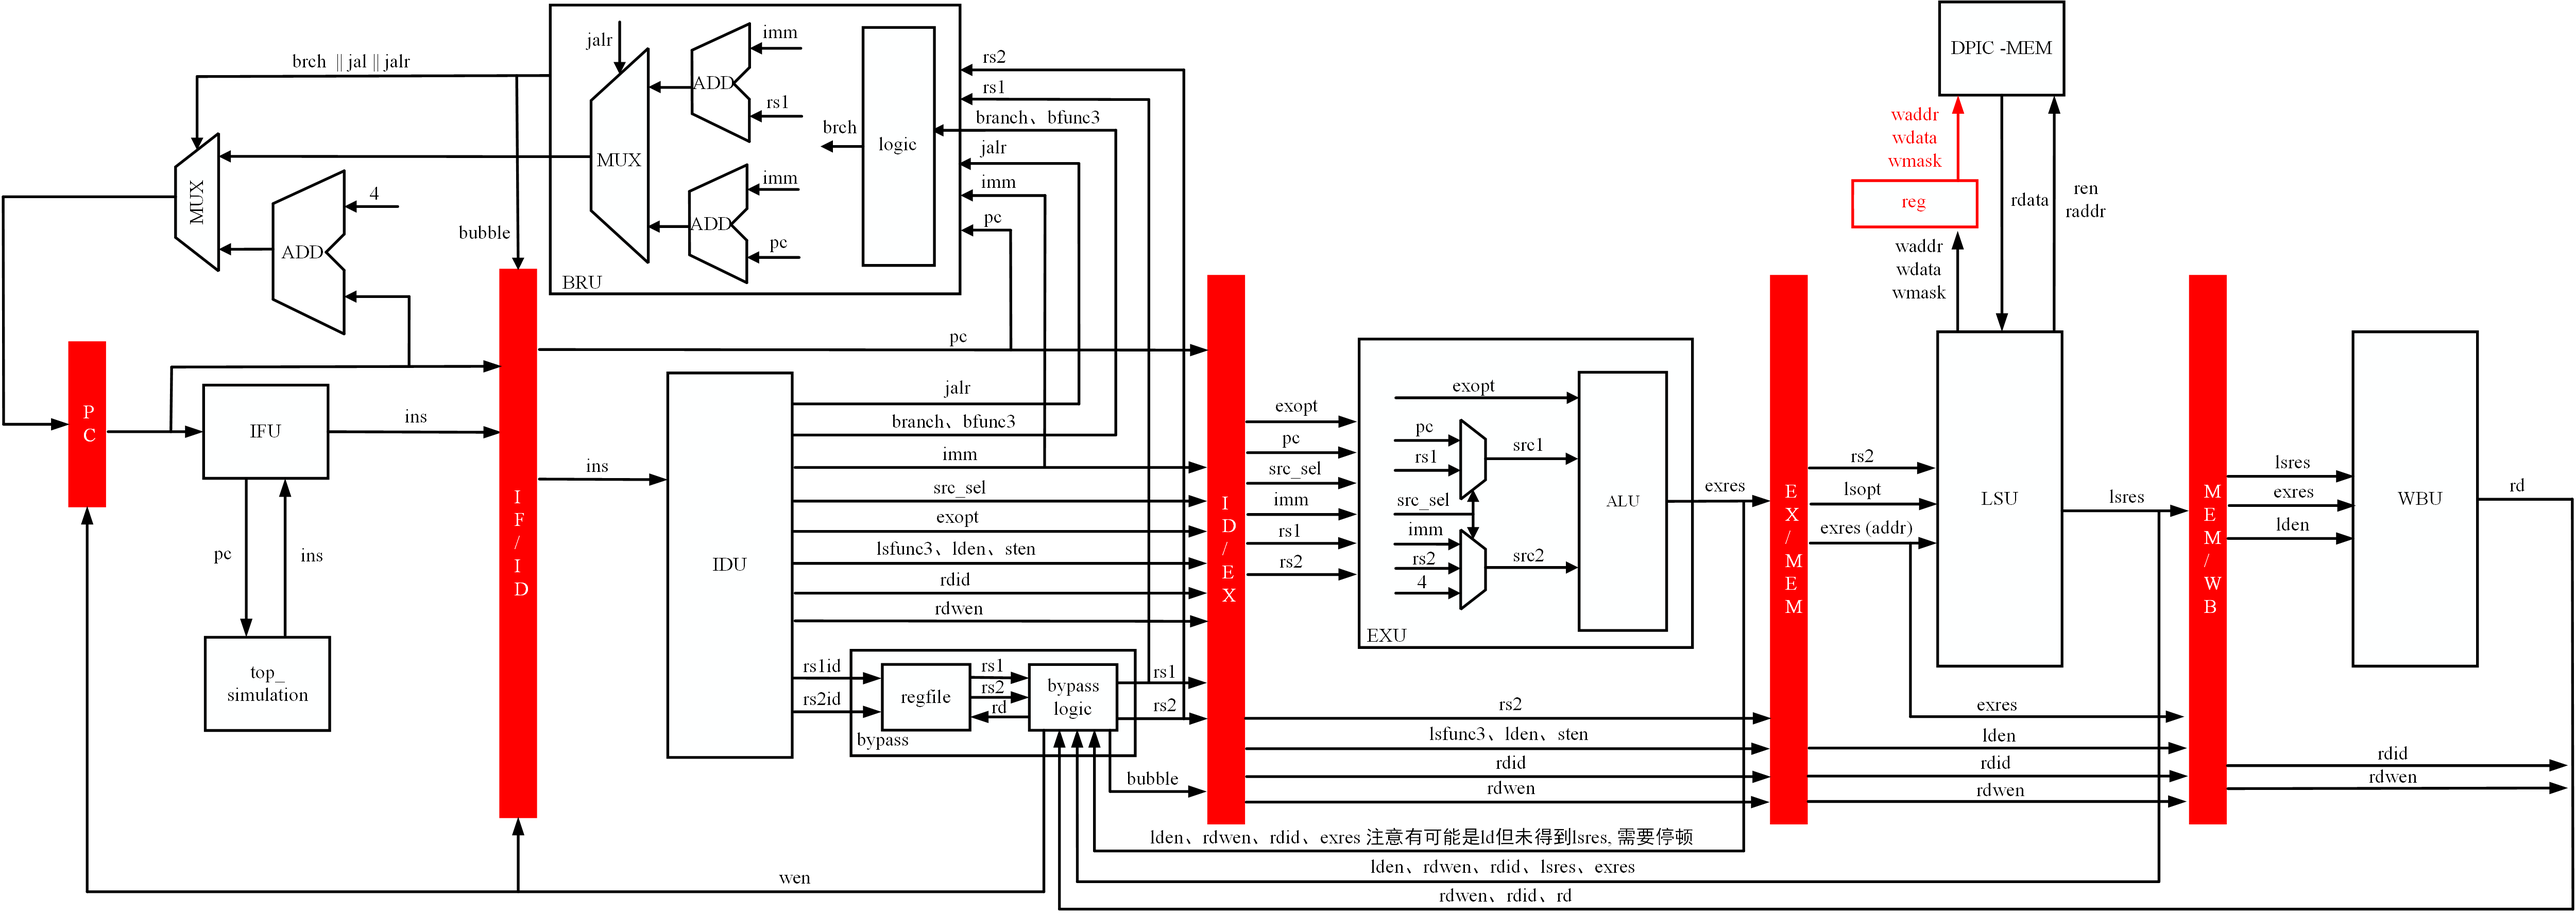
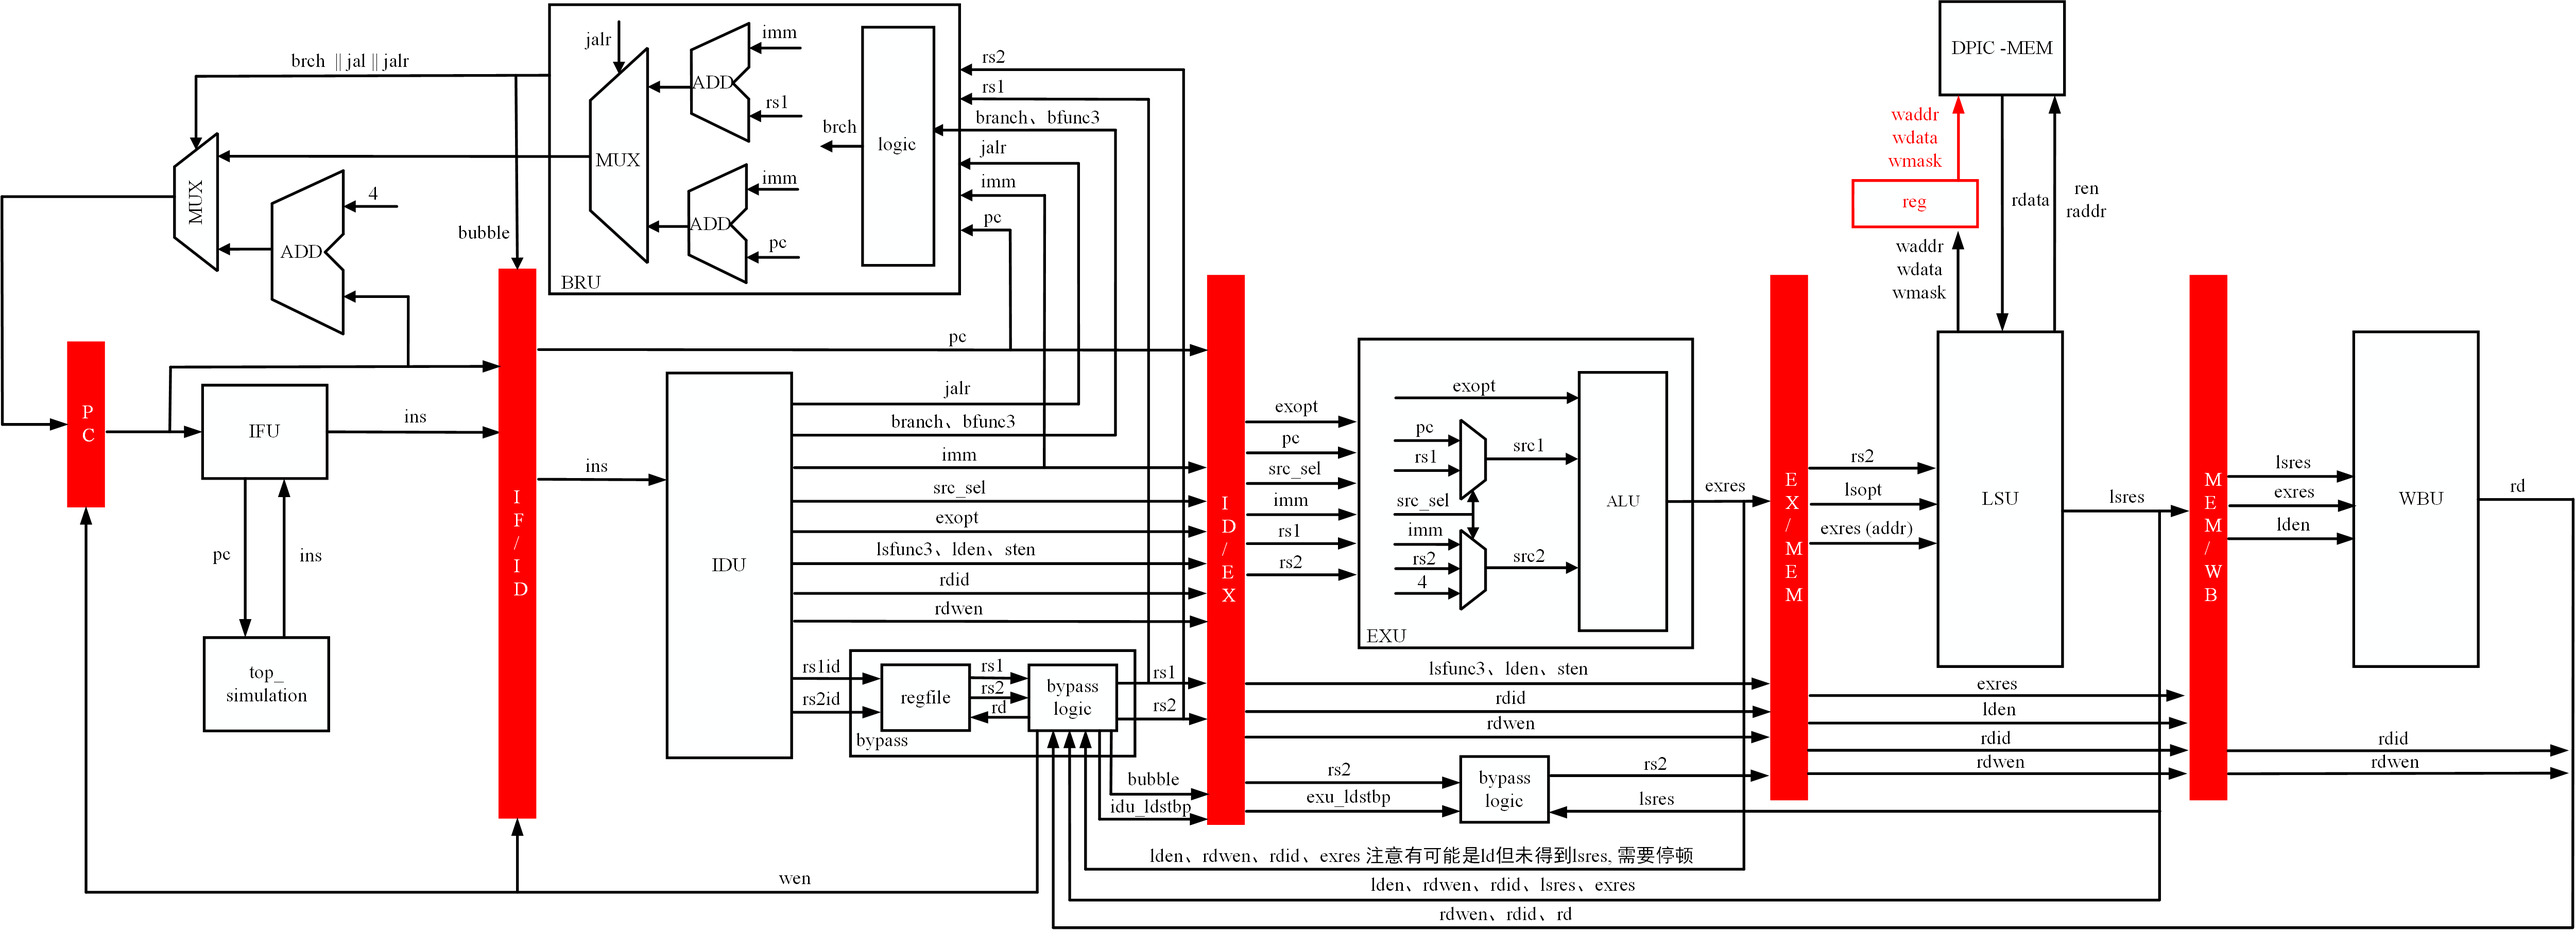
1. add a new bypass, from mem out to mem in, for store ins which is after a load ins, and rd[load] == rs2[store].   2.update README.

diff --git a/README.md b/README.md
@@ -1,14 +1,102 @@
 # 一生一芯计划 - riscv64处理器设计
+
+网站链接： [一生一芯计划](https://ysyx.oscc.cc/docs/)
+
 ## 开发进度：
 
 1.branch - SingleCycleCPU: RISCV64IM单周期处理器核，已完成设计:
 ![img](README.assets/SingleCycleCPU.png)
 
-2.branch - FiveStagePipelineCPU: 五级流水线处理器核，正在设计中。
+2.branch - FiveStagePipelineCPU: 五级流水线处理器核，已完成设计：
 ![img](README.assets/FiveStagePipelineCPU.png)
 
-## 运行方法：
-切换目录至ysyx-workbench/am-kernels/tests/cpu-tests，执行命令：
+3.总线、外设 正在开发中。
+
+## 代码结构
+
+```c
+├── abstract-machine		// high level software.
+├── nemu					// riscv64IM simulation model, use for RTL difftest.
+└── npc						// new processor core, riscv64IM RTL core.
+    ├── csrc				// verilator simulation source code.
+    │   ├── difftest.cpp
+    │   ├── dpic.cpp
+    │   ├── include
+    │   │   └── include.h
+    │   ├── init.cpp
+    │   ├── main.cpp
+    │   ├── mem.cpp
+    │   └── reg.cpp
+    ├── Makefile
+    └── vsrc				// rtl source code.
+        ├── core			// cpu core source code.
+        │   ├── bru.sv
+        │   ├── bypass.sv
+        │   ├── config.sv
+        │   ├── exu.sv
+        │   ├── idu.sv
+        │   ├── ifu.sv
+        │   ├── lsu.sv
+        │   ├── pipeline
+        │   │   ├── pipe_ex_ls.sv
+        │   │   ├── pipe_id_ex.sv
+        │   │   ├── pipe_if_id.sv
+        │   │   └── pipe_ls_wb.sv
+        │   ├── regfile.sv
+        │   ├── top.sv
+        │   └── wbu.sv
+        ├── mems			// mem source code.
+        ├── soc_top.sv		// soc top code.
+        └── stdlib			// standard library for whole soc.
+            ├── stdmux
+            │   ├── MuxKeyInternal.sv
+            │   ├── MuxKey.sv
+            │   └── MuxKeyWithDefault.sv
+            ├── stdreg.sv
+            └── stdrst.sv
 ```
-make ARCH=riscv64-npc run
-```
+
+## 流水线处理
+
+### 数据冒险旁路
+
+1. 方式1：
+
+   ![image-20220610233307369](README.assets/bypass1.png)
+
+2. 方式2：
+
+   ![image-20220610233226629](README.assets/bypass2.png)
+
+Q&A：
+
+1. 我这里采用的是方式2，主要基于三点考虑：
+
+   1. ALU这一级的组合逻辑有乘法，如果再加旁路逻辑，那么cirtical path的时延就太高了。
+   2. 如果使用方式2，那么还需要在ex阶段重新访问一次regfile读reg，属实是挺烦的。
+   3. 我的BRU在ID阶段进行，如果采用方式1，那ID阶段的reg就是错的了，bru的计算也是错的了。
+
+2. 为什么不采用和计组书上写的一样的前半个收起写reg，后半个周期读reg呢？
+
+   答：因为这样的话就需要用下降沿将一个时钟周期分开，那么ID阶段的slack就不够用了，无法提高到很高的频率！
+
+3. 图中每一条bypass的含义：
+
+   1. 其中红色的为主要bypass路径，即通过后续的三级，来给本级进行bypass。
+   2. 绿色为ld指令+alu指令，这种情况即使通过bypass无法解决，需要通过**冒泡**方式来进行处理。
+   3. 蓝色为ld+st指令，虽然ld指令的结果在mem后面才可以拿到，但是st保存的reg值也是在mem开始前才需要！这种处理方式是，通过id阶段的bypass逻辑，识别出来以后，通过流水级传递到ex阶段，然后在ex阶段根据这个bypass信号，来决定给mem的输出是什么。
+
+### 控制冒险
+
+使用预测未命中的方案。
+
+![image-20220611112106961](README.assets/branch_risk.png)
+
+### 处理方法
+
+1. 分支冒险：只对IF/ID的reg插入一个nop，对其他的地方不做任何处理。
+   ![image-20220611150706137](README.assets/branch_nop.png)
+
+2. ld+alu的数据冒险：对ID/EX的reg插入一个nop，同时关闭PC和IF/ID的寄存器，防止他们变化。
+   ![uTools_1654931277424](README.assets/data_nop.png)
+
